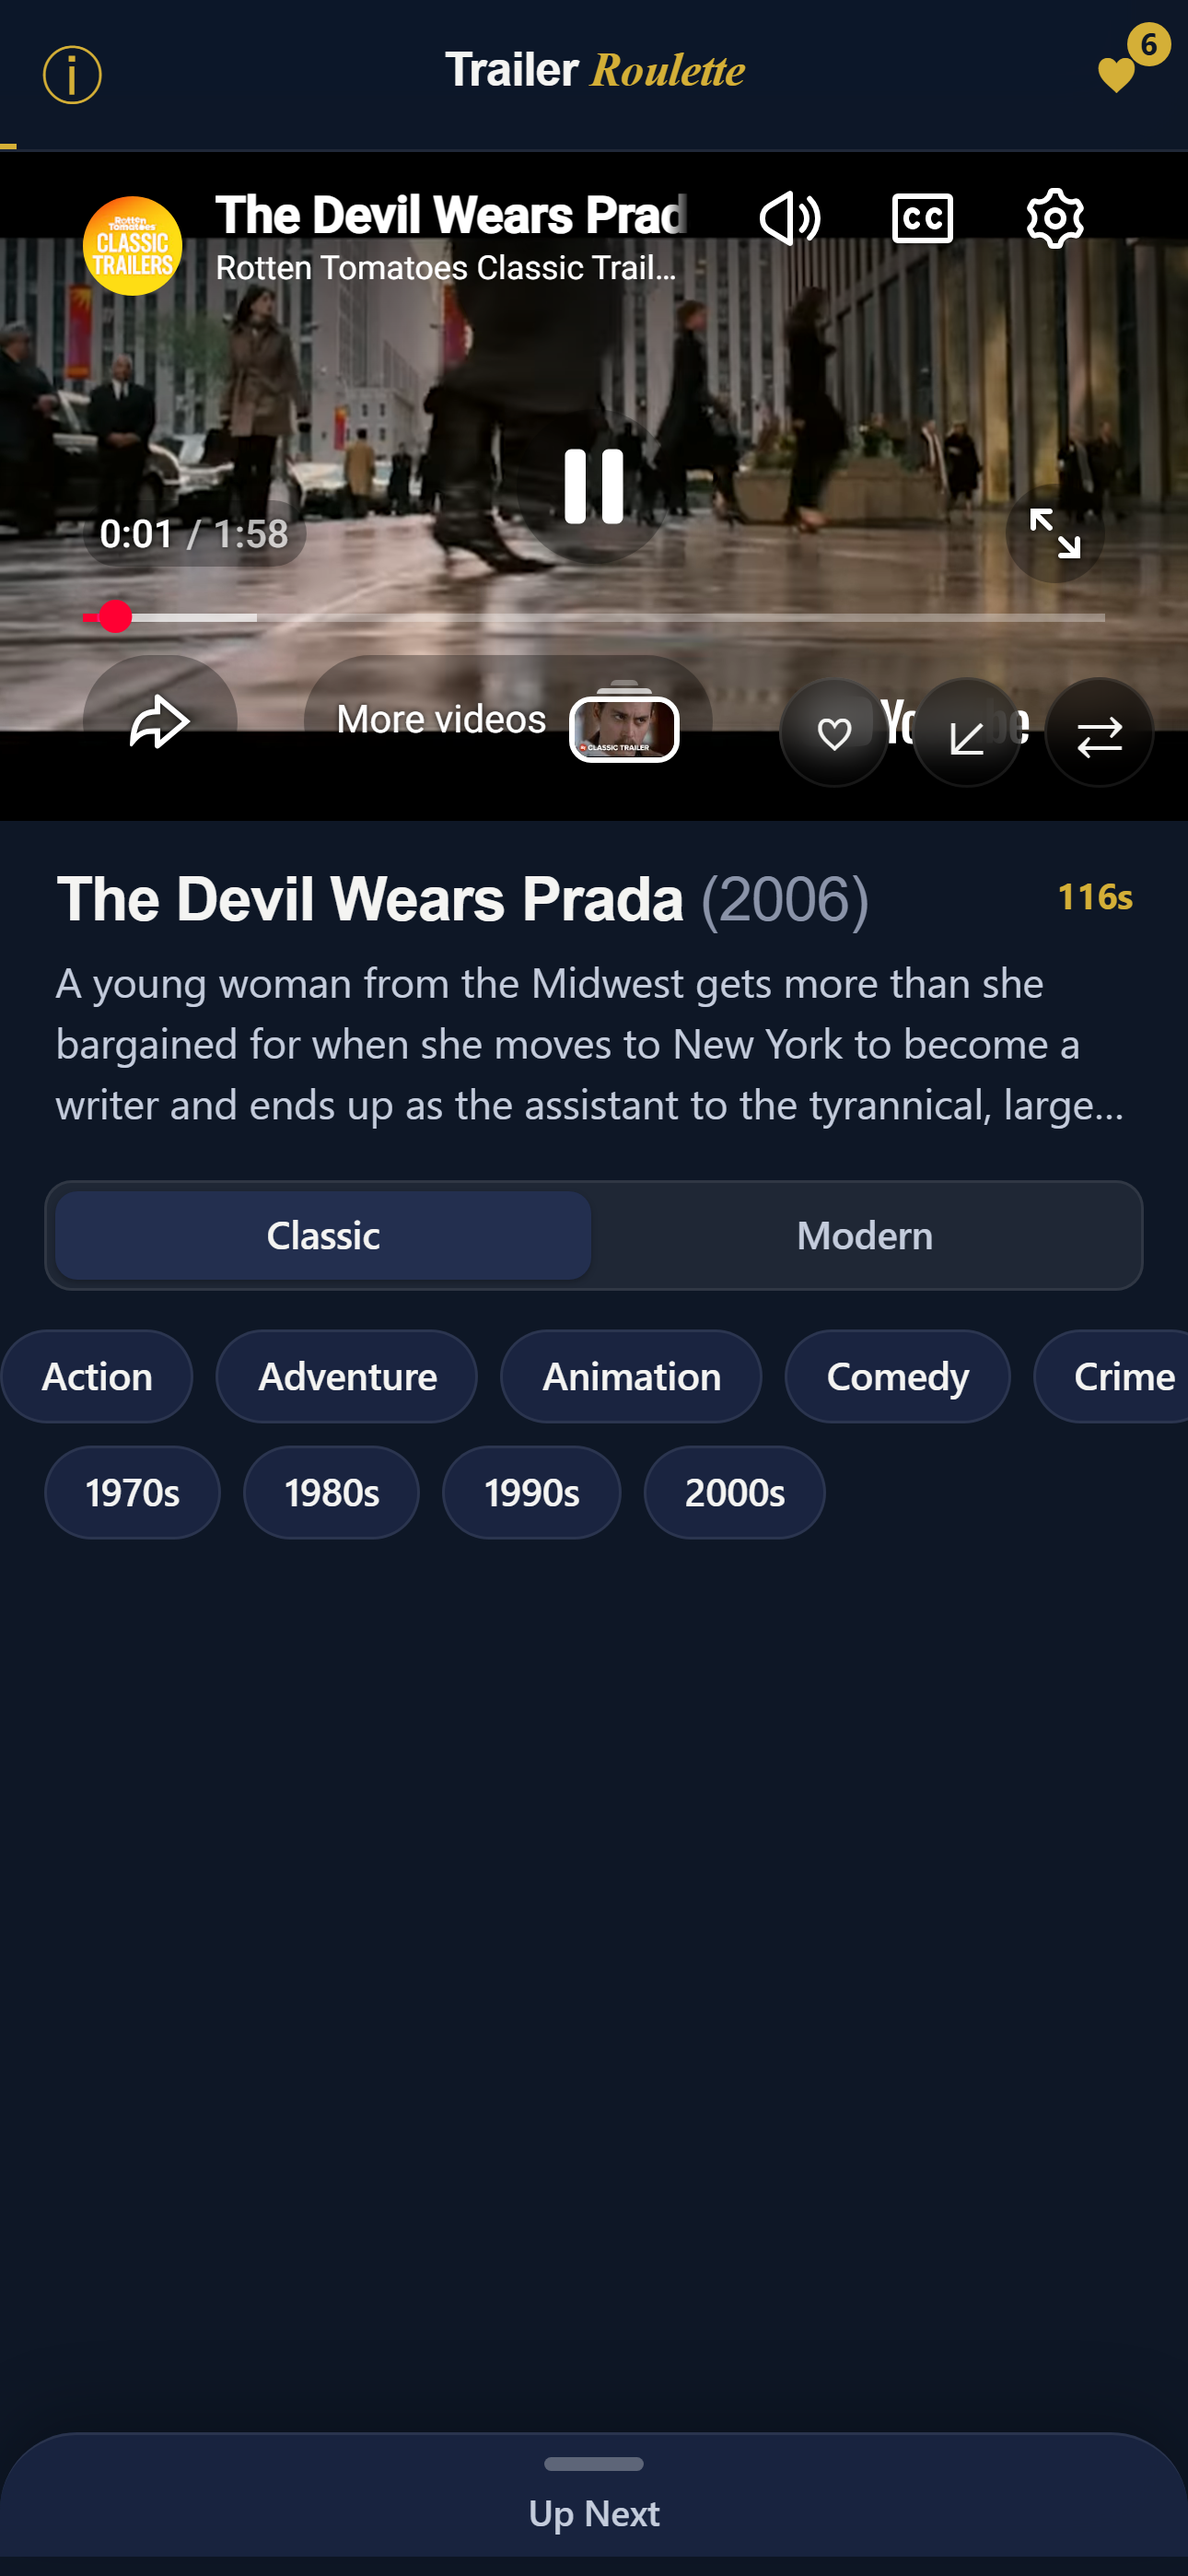
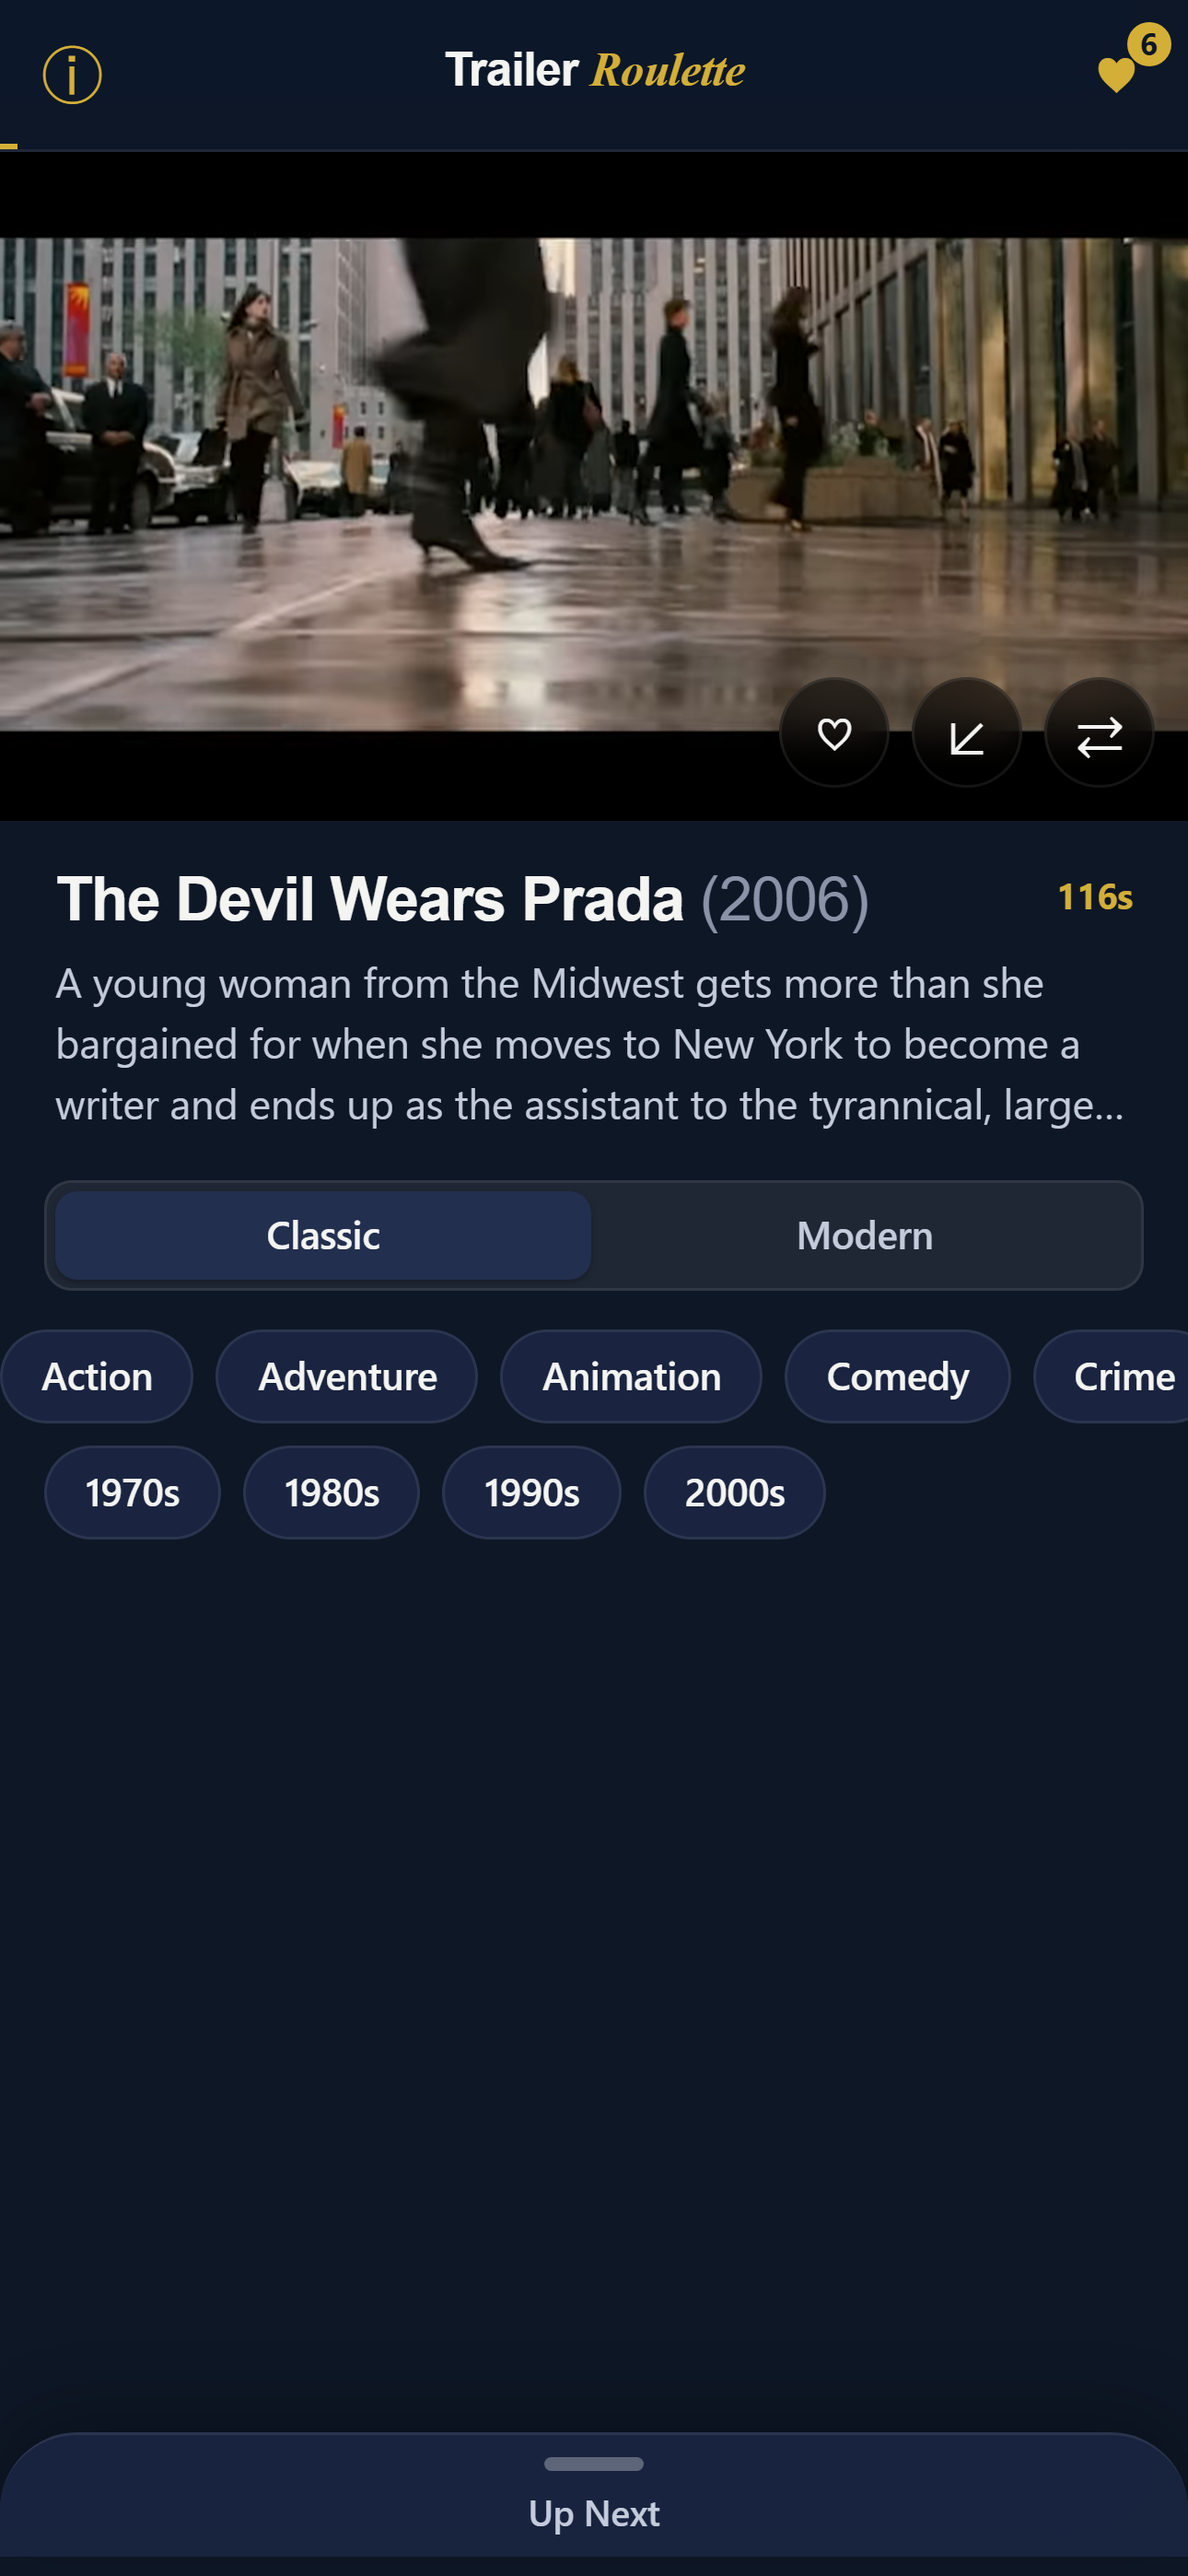
docs: SHIP-IT submission cheat sheet + refreshed screenshots against v2.0.0 UI
Final close-out for the v2.0.0 release after Charlie confirmed trailer playback works on his iPhone.

- docs/SHIP-IT.md: literal click-by-click App Store Connect walkthrough. ~45 min. Includes pre-determined age-rating answers and a reviewer-notes block that accurately describes the v2.0.0 architecture (TrailerPlayer plugin + Vercel proxy + WKWebView modal).
- assets/screenshots/: regenerated against current vite preview. UI matches v2.0.0 — Era toggle visible, pre-2010 default catalog (Devil Wears Prada (2006) as first card), HIG-styled chrome, gold accent header.

Changed region(s): [[0.0, 0.0622, 1.0, 0.3112]]

diff --git a/docs/SHIP-IT.md b/docs/SHIP-IT.md
@@ -1,0 +1,166 @@
+# Ship It — App Store submission cheat sheet (v2.0.0)
+
+You have a working build on TestFlight. This doc is the literal sequence
+of clicks to get it into the App Store. Plan ~45 minutes start to finish.
+
+---
+
+## 1. Open App Store Connect
+
+[https://appstoreconnect.apple.com/apps](https://appstoreconnect.apple.com/apps) → **Trailer Roulette** → **App Store** tab in
+the left sidebar → click the **+ Version** button if 2.0.0 isn't already
+there, or open **2.0.0 Prepare for Submission**.
+
+If ASC doesn't show 2.0.0 yet, click the version selector and pick
+"Create New Version" → enter `2.0.0`.
+
+## 2. Paste the description copy
+
+Open `store-listing/description.md`. Copy the block under "App name" into
+**Name** (`Trailer Roulette`). Paste the **Subtitle** block (`Trailers
+from another era.`). Then paste the multi-paragraph block from the
+"Description" section into the App Store **Description** field exactly
+as written.
+
+## 3. Paste keywords + promotional text
+
+- **Keywords** field → paste the line from `store-listing/keywords.md`:
+  `trailers,classic,vintage,80s,90s,cinephile,watchlist,movie picker,date night`
+- **Promotional Text** field → paste from `store-listing/promotional-text.md`:
+  `New: Watchlist + Seen it/Skip it swipes. The more you swipe, the smarter your shuffles get. No accounts. No tracking. Your taste, your phone.`
+- **What's New in This Version** → paste from `store-listing/whats-new-v1.0.md`
+  (this is the first public release, so use the v1.0.0 copy even though our
+  internal build number is 2.0.0)
+
+## 4. Upload screenshots
+
+Apple requires a 6.9-inch set; older sizes are auto-derived but you might
+as well upload them all since we have them.
+
+In **App Previews and Screenshots** at the top of the version page:
+
+- **iPhone 6.9"** → drag in all five files from `assets/screenshots/6.9-inch/`
+- **iPhone 6.7"** → drag in all five from `assets/screenshots/6.7-inch/`
+- **iPhone 6.5"** → optional, drag in from `assets/screenshots/6.5-inch/`
+- **iPhone 5.5"** → optional, drag in from `assets/screenshots/5.5-inch/`
+
+Apple will validate dimensions automatically. The order matters — they're
+named `01-` through `05-` which is the order we want them displayed.
+
+## 5. Age Rating
+
+In the **General App Information** section (left sidebar) → **Age Rating**
+→ click **Edit**. Answer the questionnaire:
+
+- Frequent/Intense Cartoon or Fantasy Violence: **None**
+- Frequent/Intense Realistic Violence: **None**
+- Frequent/Intense Sexual Content or Nudity: **None**
+- Profanity or Crude Humor: **Infrequent/Mild** (some trailers may include language)
+- Alcohol, Tobacco, or Drug Use: **Infrequent/Mild** (some trailers depict these)
+- Mature/Suggestive Themes: **Infrequent/Mild** (varies by trailer)
+- Horror/Fear Themes: **Infrequent/Mild** (we surface horror trailers in the queue)
+- Gambling: **None**
+- Medical/Treatment Information: **None**
+- Unrestricted Web Access: **No**
+- Made for Kids: **No**
+
+This produces a **12+** rating. Save.
+
+## 6. Pricing & Availability
+
+Left sidebar → **Pricing and Availability**:
+
+- **Price**: USD 0 (Free)
+- **Availability**: select all countries, OR start with United States only
+  for a soft launch and expand after a few days
+- **Pre-orders**: Off
+
+## 7. App Privacy
+
+Left sidebar → **App Privacy** → **Edit**.
+
+Click **Get Started** → confirm "**Data Not Collected**". The whole
+nutrition label is empty — we don't collect anything. Save.
+
+If asked about tracking: **No**.
+
+## 8. Attach the build
+
+Back on the **2.0.0 Prepare for Submission** page → scroll to the **Build**
+section → click **+** → select the latest TestFlight build of v2.0.0.
+
+If it's not listed: TestFlight processing can take 5–60 minutes. Wait,
+refresh, retry.
+
+## 9. Reviewer Notes
+
+Scroll to **App Review Information**. Paste this verbatim into the
+**Notes** field:
+
+```
+Trailer Roulette is a personalized movie-discovery app focused on pre-2010 cinema. The default queue surfaces classics from the 70s, 80s, 90s and 2000s; users can flip an Era toggle to see modern trailers if they want.
+
+Core features (these are what makes the app the app, not just trailer playback):
+• Era + genre + decade filters that shape the queue
+• Watchlist — saved movies, persisted locally with Capacitor Preferences (no accounts, no server)
+• Seen it / Skip it swipes that feed an on-device taste profile
+• Learned shuffle weighting that biases future queues toward the user's affinity (genre, decade, runtime)
+• AirPlay routing to a TV via a custom local Capacitor plugin
+
+Trailer playback:
+Trailers play in an in-app fullscreen modal that hosts a WKWebView pointed at our own embed proxy page (https://trailer-roulette.vercel.app/embed?v=ID). The proxy page contains a YouTube IFrame Player API embed using YouTube's official embed code. We never host, copy, modify, or redistribute trailer content; we present YouTube's official embedded player in a third-party page that satisfies YouTube's embedded-player Terms of Service requirement for proper Referer-based embedder identification.
+
+This is not a YouTube wrapper. The discovery loop, taste profile, watchlist, AirPlay routing, and curation logic all run on-device and are independent of YouTube. Trailers are one piece of content surfaced inside that loop.
+
+Movie metadata from TMDB API; required attribution is shown on the About screen and in the description.
+
+Privacy posture: no accounts, no tracking, no analytics SDKs. Privacy nutrition label = "Data Not Collected."
+
+Test path:
+1. Open the app — first trailer auto-loads (a pre-2010 movie based on default Classic era filter)
+2. Tap the Play button — fullscreen branded modal opens with YouTube IFrame Player playing the trailer
+3. Tap Done top-right — modal dismisses, app advances to the next trailer in the queue
+4. Swipe right on the trailer card to mark "Seen it" — updates the on-device taste profile
+5. Swipe left to "Skip it" — also updates the profile (negative signal)
+6. Tap the heart icon to save the current movie to Watchlist
+7. View Watchlist via the heart in the header
+8. Toggle Era from Classic to Modern in the filter bar to switch the catalog window
+9. About screen shows TMDB attribution and privacy posture
+
+Contact: crescicharles@gmail.com
+```
+
+- **Sign-in required**: No
+- **Demo account**: leave blank
+- **Contact info**: Charlie Cresci, crescicharles@gmail.com, your phone optional
+
+## 10. Submit
+
+Top-right of the version page → **Add for Review** → confirm → **Submit**.
+
+App Review takes 24–72h typically. You'll get an email when it's reviewed.
+
+## If rejected
+
+The most likely rejection vectors and how to respond are pre-written in
+`docs/REJECTION-RESPONSES.md`. The most common is **4.2 Minimum
+Functionality** ("this looks like a YouTube wrapper") — the rebuttal memo
+is at `research/why-this-app-is-original.md` and you paste it into
+Resolution Center verbatim.
+
+## When approved
+
+In ASC, the version goes to **Pending Developer Release** (we set manual
+release earlier). Click **Release This Version** when you're ready for
+the public.
+
+Then:
+1. Verify it's live by searching "Trailer Roulette" on the App Store
+2. Respond to any incoming reviews within 24h
+3. Track downloads / crashes for the first 7 days
+4. Day 7 if clean, expand availability to all territories (if you started
+   US-only)
+
+---
+
+**That's it. Ship it.**
